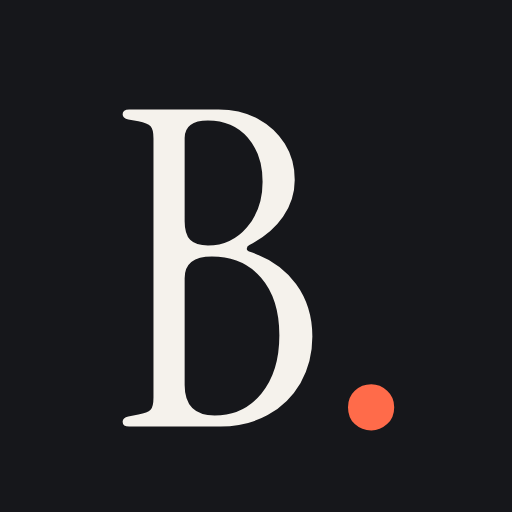
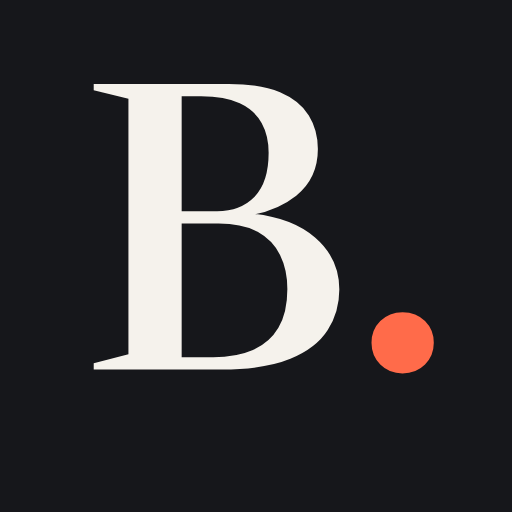
Switch headlines to Newsreader, flip portrait, tighten vertical spacing

Changed region(s): [[0.1875, 0.1562, 0.6875, 0.8438], [0.6562, 0.5938, 0.875, 0.8438]]

diff --git a/src/styles/tokens.css b/src/styles/tokens.css
@@ -39,16 +39,16 @@
   --step--1: clamp(0.875rem, 0.8286rem + 0.1905vw, 1rem); /* small text, captions */
   --step-0: clamp(1rem, 0.9536rem + 0.1905vw, 1.125rem); /* body */
   --step-1: clamp(1.25rem, 1.1571rem + 0.381vw, 1.5rem); /* lead paragraphs */
-  --step-2: clamp(1.5rem, 1.2679rem + 0.9524vw, 2.125rem); /* h3 */
-  --step-3: clamp(2rem, 1.6286rem + 1.5238vw, 3rem); /* h2 in prose */
-  --step-4: clamp(2.5rem, 1.7571rem + 3.0476vw, 4.5rem); /* section titles */
-  --step-5: clamp(3.25rem, 1.8571rem + 5.7143vw, 7rem); /* large statements */
-  --step-6: clamp(4rem, 1.0286rem + 12.1905vw, 12rem); /* hero name */
+  --step-2: clamp(1.375rem, 1.1893rem + 0.7619vw, 1.875rem); /* h3, project titles */
+  --step-3: clamp(1.75rem, 1.4714rem + 1.1429vw, 2.5rem); /* h2 in prose */
+  --step-4: clamp(2.25rem, 1.7857rem + 1.9048vw, 3.5rem); /* section titles */
+  --step-5: clamp(2.75rem, 1.9143rem + 3.4286vw, 5rem); /* large statements */
+  --step-6: clamp(3.5rem, 1.4571rem + 8.381vw, 9rem); /* hero name */
 
-  --leading-display: 0.92;
-  --leading-tight: 1.15;
-  --leading-body: 1.6;
-  --tracking-display: -0.02em;
+  --leading-display: 1;
+  --leading-tight: 1.2;
+  --leading-body: 1.55;
+  --tracking-display: -0.025em;
   --tracking-label: 0.08em;
   --measure: 62ch;
 
@@ -59,8 +59,8 @@
   --space-s: 1rem;
   --space-m: clamp(1.25rem, 1.1071rem + 0.5714vw, 1.625rem);
   --space-l: clamp(2rem, 1.7143rem + 1.1429vw, 2.75rem);
-  --space-xl: clamp(3rem, 2.4286rem + 2.2857vw, 4.5rem);
-  --space-2xl: clamp(4.5rem, 3.3571rem + 4.5714vw, 7.5rem); /* between sections */
+  --space-xl: clamp(2.5rem, 2.1286rem + 1.5238vw, 3.5rem);
+  --space-2xl: clamp(3.5rem, 2.7571rem + 3.0476vw, 5.5rem); /* between sections */
 
   /* Layout ------------------------------------------------------------ */
   --page-max: 90rem;

diff --git a/src/styles/base.css b/src/styles/base.css
@@ -141,7 +141,7 @@ a:hover {
 
 .display {
   font-family: var(--serif);
-  font-weight: 400;
+  font-weight: 500;
   line-height: var(--leading-display);
   letter-spacing: var(--tracking-display);
 }
@@ -149,6 +149,7 @@ a:hover {
 .display em,
 .display i {
   font-style: italic;
+  font-weight: 400;
 }
 
 .visually-hidden {

diff --git a/src/config/site.ts b/src/config/site.ts
@@ -79,6 +79,8 @@ export const site = {
    */
   portrait: {
     alt: 'Bereket Zeselassie, smiling, wearing glasses and a white shirt',
+    /** Flip the photo horizontally. Also applies to the share image (re-run `npm run brand`). */
+    mirror: true,
   },
 
   // REVIEW: the about paragraph(s). First person, plain.

diff --git a/src/styles/prose.css b/src/styles/prose.css
@@ -12,8 +12,9 @@
   font-family: var(--serif);
   font-size: var(--step-3);
   line-height: var(--leading-tight);
+  font-weight: 500;
   letter-spacing: var(--tracking-display);
-  margin-top: 1.6em;
+  margin-top: 1.4em;
 }
 
 .prose h2 + * {

diff --git a/CLAUDE.md b/CLAUDE.md
@@ -35,10 +35,12 @@ npm run brand           # regenerate public/og.png and favicons (after name/role
 - Both themes come from `light-dark()`. Check any new colour pair on `/styleguide` in both themes; WCAG AA is required everywhere.
 
 **Type:**
-- Instrument Serif (`--serif`, `.display`) for names and headlines, tight leading, the occasional word in *italic*.
+- Newsreader (`--serif`, `.display`) for names and headlines: weight 500, italic 400 for the occasional emphasised word. It's variable, and optical sizing follows the font size automatically. (Instrument Serif was tried first and rejected as too condensed; it made the page feel stretched vertically.)
 - Geist (`--sans`) for body and UI.
 - Geist Mono (`--mono`, `.label`) for small uppercase meta: `(02) Selected work`, dates, stack.
 - Fluid scale `--step--2` … `--step-6`. No Inter, no system font as the main face.
+
+**Vertical rhythm:** keep it compact. The hero is sized by its content, not the viewport. Sections are separated by `--space-2xl`, and headlines don't get extra air above and below. Bereket found the first, airier version "stretched".
 
 **Layout:**
 - 12-column grid (4 on mobile), asymmetric, left-aligned by default. Centre only with a reason.
